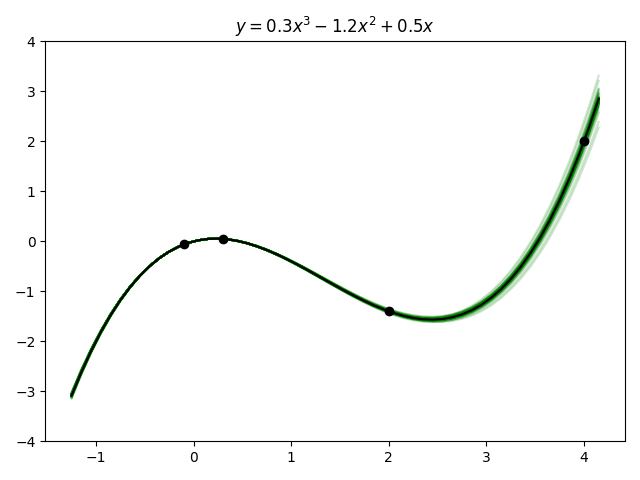
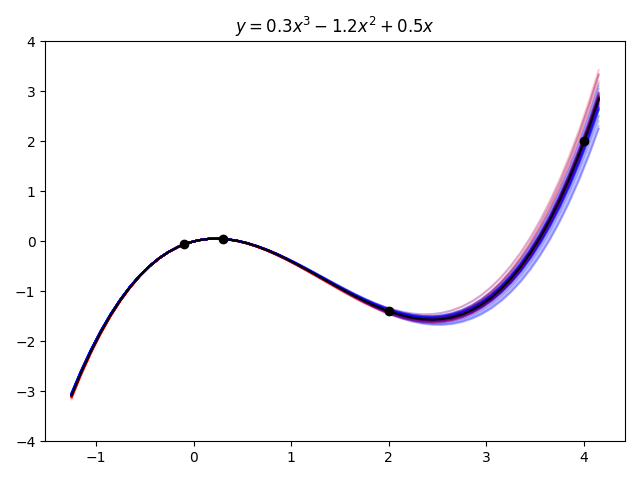
changed example to show cluster effect

diff --git a/mobo/optimize.py b/mobo/optimize.py
@@ -30,14 +30,24 @@ class Optimizer(object):
         # loop over each iteration
         for i in range(self.configuration.n_iterations):
             self._log("\nBeginning iteration {}...".format(i))
-            df = self._evaluate(df, i) # generate errors
-            df = self._filter(df, i)   # remove poor parameterizations
+            # do not resample the first iteration
+            if i == 0:
+                self._log("Skipped resampling step for the first iteration.")
+            else:
+                df = self._sample(df, i)
+            # evaluate the parameterizations
+            df = self._evaluate(df, i)
+            # filter out poor parameterization
+            df = self._filter(df, i)
+            # reset index for proper joining
             df = df.reset_index()
-            df = self._project(df, i)  # project parameters onto 2D
-            df = self._cluster(df, i)  # cluster projected parameters
-            df = self._export(df, i)   # write iteration data to file
-            df = self._sample(df, i)   # generate new parameter distribution
-            self._log("Completed iteration {}\n".format(i))
+            # project the filtered parameters onto a 2D space
+            df = self._project(df, i)
+            # cluster the projected parameter space
+            df = self._cluster(df, i)
+            # write the iteration data to file
+            df = self._export(df, i)
+            self._log("Completed iteration {}.\n".format(i))
 
     @property
     def parameter_names(self) -> List[str]:
@@ -65,6 +75,36 @@ class Optimizer(object):
             self.parameter_names + self.qoi_names + self.error_names +
             self.projection_names + self.cluster_names
         )
+
+    def _sample(self, df: pd.DataFrame, iteration: int) -> pd.DataFrame:
+        """Resample the filtered distribution."""
+        self._log("Resampling parameter space via KDE...")
+        cluster_ids = set(df[self.cluster_names].to_numpy().flatten())
+        n_samples = self.configuration.local_configurations[iteration].n_samples
+        n_samples_per_cluster = n_samples // len(cluster_ids) # TODO
+        self._log(
+            "\tDrawing {} samples per cluster...".format(n_samples_per_cluster)
+        )
+        samples = []
+        for cluster_id in cluster_ids:
+            self._log("\tCluster {}:".format(cluster_id))
+            data = df[df[self.cluster_names[0]] == cluster_id] # another issue caused by single element list
+            self._log("\t\tsamples: {}".format(len(data)))
+            data_arr = data[self.parameter_names].to_numpy(float)
+            # i will never understand the double transpose
+            kde = gaussian_kde(data_arr.T)
+            self._log("\t\tbandwidth: {:.6}".format(kde.factor))
+            samples.append(kde.resample(n_samples_per_cluster).T)
+        new_samples_arr = np.vstack(samples) # concat new samples
+        old_samples_arr = df[self.parameter_names].to_numpy()
+        samples_arr = np.vstack((old_samples_arr, new_samples_arr)) # concat old samples
+        index = range(len(samples_arr))
+        df = pd.DataFrame(columns=self.df_column_names, index=index) # overwrite df
+        df.update(
+            {pn: samples_arr[:, i] for i, pn in enumerate(self.parameter_names)}
+        )
+        self._log("\tResampled data has {} samples.".format(len(df)))
+        return df
 
     def _evaluate(self, df: pd.DataFrame, iteration: int) -> pd.DataFrame:
         """Evaluate each qoi for each parameterization."""
@@ -106,7 +146,7 @@ class Optimizer(object):
 
     def _project(self, df: pd.DataFrame, iteration: int) -> pd.DataFrame:
         """Project parameter space down to a 2D space."""
-        self._log("Projecting parameter space to 2D...")
+        self._log("Projecting parameter space down to 2D...")
         proj = self.configuration.local_configurations[iteration].projector
         proj_arr = proj(df[self.parameter_names].to_numpy())
         df.update(
@@ -128,36 +168,8 @@ class Optimizer(object):
     def _export(self, df: pd.DataFrame, iteration: int) -> pd.DataFrame:
         """Export the results of an iteration as a csv file."""
         filename = "mobo_iteration_{}.csv".format(iteration)
-        self._log("Exporting iteration data to {}...".format(filename))
         df.to_csv(filename)
-        return df
-
-    def _sample(self, df: pd.DataFrame, iteration: int) -> pd.DataFrame:
-        """Resample the filtered distribution."""
-        self._log("Resampling parameter space via KDE...")
-        cluster_ids = set(df[self.cluster_names].to_numpy().flatten())
-        n_samples = self.configuration.local_configurations[iteration].n_samples
-        n_samples_per_cluster = n_samples // len(cluster_ids) # TODO
-        self._log(
-            "\tDrawing {} samples per cluster...".format(n_samples_per_cluster)
-        )
-        samples = []
-        for cluster_id in cluster_ids:
-            data = df[df[self.cluster_names[0]] == cluster_id] # another issue caused by single element list
-            self._log("\tCluster {} has {} samples.".format(cluster_id, len(data)))
-            data_arr = data[self.parameter_names].to_numpy(float)
-            # i will never understand the double transpose
-            kde = gaussian_kde(data_arr.T)
-            samples.append(kde.resample(n_samples_per_cluster).T)
-        new_samples_arr = np.vstack(samples) # concat new samples
-        old_samples_arr = df[self.parameter_names].to_numpy()
-        samples_arr = np.vstack((old_samples_arr, new_samples_arr)) # concat old samples
-        index = range(len(samples_arr))
-        df = pd.DataFrame(columns=self.df_column_names, index=index) # overwrite df
-        df.update(
-            {pn: samples_arr[:, i] for i, pn in enumerate(self.parameter_names)}
-        )
-        self._log("\tResampled data has {} samples.".format(len(df)))
+        self._log("Exported iteration data to {}.".format(filename))
         return df
 
     def _generate_initial_parameter_distributions(self) -> np.ndarray:

diff --git a/examples/polynomial.py b/examples/polynomial.py
@@ -95,9 +95,11 @@ if __name__ == "__main__":
     # construct plot
     fig, ax = plt.subplots()
     x = np.arange(-1.25, 4.25, 0.1)
-    for _, p in final_data[optimizer.parameter_names].iterrows():
+    colors = ["blue", "red"]
+    for i, p in final_data[optimizer.parameter_names].iterrows():
         y = [polynomial(p["a"], p["b"], p["c"], _x) for _x in x]
-        ax.plot(x, y, alpha=0.2, color="green", zorder=0)
+        cluster_id = final_data["cluster_id"][i]
+        ax.plot(x, y, alpha=0.2, color=colors[cluster_id], zorder=0)
     exact_y = [polynomial(0.3, -1.2, 0.5, _x) for _x in x]
     ax.plot(x, exact_y, color="black", zorder=1)
     test_x = [-0.1, 0.3, 2.0, 4.0]

diff --git a/README.md b/README.md
@@ -65,7 +65,7 @@ As an aside, you may notice that this optimizer is a callable object. I use this
 
 ![polynomial fit results](./figures/polynomial.png)
 
-The black line is the target polynomial, the black dots are the points used as quantities of interest, and the green lines are the predictions as a result of running the `mobo` algorithm. As you can see, the fit is quite close. Other choices of points to evaluate should yield similar results so long as they are near the local extrema.
+The black line is the target polynomial, the black dots are the points used as quantities of interest, the blue lines are the predictions from cluster 0 and the red lines are predictions from cluster 1. As you can see, the fit is quite close. Other choices of points to evaluate should yield similar results so long as they are near the local extrema.
 
 ## Algorithm Description
 TODO
